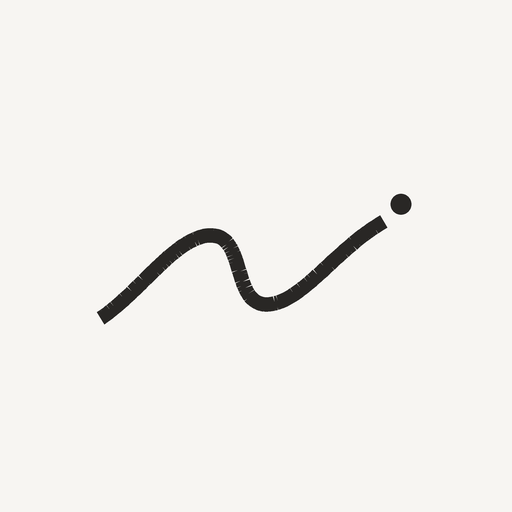
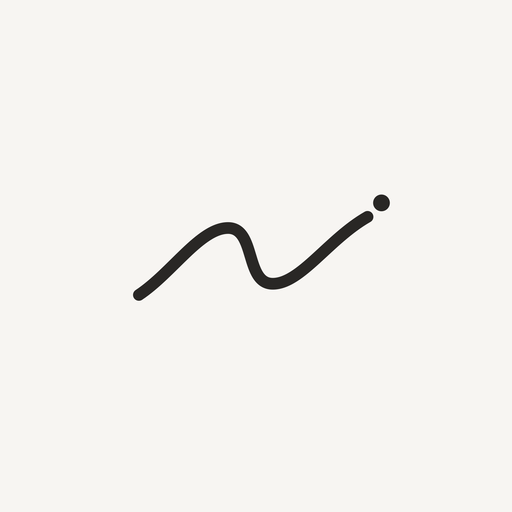
Add files via upload

Changed region(s): [[0.1875, 0.375, 0.8125, 0.6562]]

diff --git a/index.html b/index.html
@@ -1,5 +1,5 @@
 <!doctype html>
-<html lang="en"><head><meta charset="utf-8"><meta name="viewport" content="width=device-width,initial-scale=1,viewport-fit=cover"><meta name="theme-color" content="#f7f5f2"><link rel="manifest" href="manifest.webmanifest"><link rel="apple-touch-icon" href="icon-192.png?v=23"><title>Hana OS</title>
+<html lang="en"><head><meta charset="utf-8"><meta name="viewport" content="width=device-width,initial-scale=1,viewport-fit=cover"><meta name="theme-color" content="#f7f5f2"><link rel="manifest" href="manifest.webmanifest"><link rel="apple-touch-icon" href="icon-192.png?v=24"><title>Hana OS</title>
 <style>
 :root{--bg:#f7f5f2;--paper:#fffdfa;--ink:#292725;--muted:#8b8680;--line:#e5e0da;--soft:#eee9e3;--accent:#b9a89a;--shadow:0 8px 28px rgba(55,45,38,.055);font-family:-apple-system,BlinkMacSystemFont,"Segoe UI",sans-serif;color:var(--ink);background:var(--bg)}*{box-sizing:border-box}html{background:var(--bg)}body{margin:0;background:var(--bg);min-height:100vh}button,input,textarea,select{font:inherit;color:inherit}button{cursor:pointer}.app{max-width:720px;margin:auto;padding:0 18px calc(104px + env(safe-area-inset-bottom))}.topbar{padding:calc(22px + env(safe-area-inset-top)) 0 20px;display:flex;align-items:center;justify-content:space-between}.brand{display:flex;gap:11px;align-items:center}.mark{width:44px;height:38px;display:grid;place-items:center}.mark svg{width:44px;height:30px;overflow:visible}.mark path{fill:none;stroke:var(--ink);stroke-width:2.1;stroke-linecap:round;stroke-linejoin:round}.mark circle{fill:var(--ink)}.brand h1{font-family:Georgia,"Times New Roman",serif;font-weight:500;font-size:24px;letter-spacing:.01em;margin:0}.eyebrow{font-size:10px;letter-spacing:.16em;text-transform:uppercase;color:var(--muted);margin-bottom:4px}.date-pill{border:1px solid var(--line);background:transparent;border-radius:999px;padding:9px 12px;font-size:12px}.screen{display:none}.screen.active{display:block}.hero{padding:16px 0 26px}.hero h2{font-family:Georgia,"Times New Roman",serif;font-size:31px;line-height:1.08;font-weight:400;margin:0 0 8px}.muted{color:var(--muted);font-size:13px;line-height:1.45}.section{padding:22px 0;border-top:1px solid var(--line)}.section-title{font-family:Georgia,"Times New Roman",serif;font-size:21px;font-weight:400;margin:0 0 4px}.row{display:flex;gap:10px;align-items:center;justify-content:space-between;flex-wrap:wrap}.card{background:var(--paper);border:1px solid var(--line);border-radius:20px;padding:17px;box-shadow:var(--shadow)}.field{width:100%;border:1px solid var(--line);background:var(--paper);border-radius:14px;padding:13px 14px;font-size:15px;outline:none}.field:focus{border-color:var(--accent)}textarea{resize:vertical;line-height:1.55}.score-card{padding:16px 0}.score-head{display:flex;justify-content:space-between;align-items:baseline;margin-bottom:10px}.score-name{font-size:14px}.score-value{font-family:Georgia,serif;font-size:19px}.scale{display:grid;grid-template-columns:repeat(10,1fr);gap:5px}.scale button{aspect-ratio:1;border:1px solid var(--line);background:var(--paper);border-radius:50%;padding:0;font-size:10px;min-width:0}.scale button.on{background:var(--ink);color:var(--bg);border-color:var(--ink)}.chips{display:flex;flex-wrap:wrap;gap:8px}.chip,.btn{min-height:40px;border:1px solid var(--line);border-radius:999px;background:var(--paper);padding:8px 13px;font-size:13px}.chip.on{background:var(--ink);color:white;border-color:var(--ink)}.btn.primary{background:var(--ink);color:white;border-color:var(--ink);padding:11px 18px}.btn.ghost{background:transparent}.learning,.entry,.reviewbox{margin-top:12px}.learning{background:var(--paper);border:1px solid var(--line);border-radius:18px;padding:14px}.hidden{display:none!important}.actions{display:flex;gap:8px;flex-wrap:wrap}.status{min-height:18px}.bottomnav{position:fixed;z-index:20;bottom:0;left:0;right:0;background:rgba(247,245,242,.94);backdrop-filter:blur(18px);-webkit-backdrop-filter:blur(18px);border-top:1px solid var(--line);padding:8px 12px calc(8px + env(safe-area-inset-bottom));display:flex;justify-content:center}.navinner{width:min(720px,100%);display:grid;grid-template-columns:repeat(4,1fr)}.navbtn{border:0;background:transparent;padding:5px 2px;color:#9a948e;font-size:10px;display:flex;flex-direction:column;align-items:center;gap:3px}.navbtn svg{width:21px;height:21px;stroke:currentColor;fill:none;stroke-width:1.5}.navbtn.active{color:var(--ink)}.navbtn.active span{font-weight:600}.checklist{display:grid;gap:10px}.task{display:flex;align-items:center;gap:12px;background:var(--paper);border:1px solid var(--line);border-radius:16px;padding:13px}.task input{appearance:none;width:22px;height:22px;border:1px solid #bdb6af;border-radius:50%;margin:0;display:grid;place-items:center}.task input:checked{background:var(--ink);border-color:var(--ink)}.task input:checked:after{content:'✓';color:white;font-size:13px}.task input:checked+span{text-decoration:line-through;color:var(--muted)}.task span{flex:1}.task .x{border:0;background:none;color:var(--muted);font-size:18px}.progress{height:5px;background:var(--soft);border-radius:9px;overflow:hidden;margin:12px 0}.progress>i{display:block;height:100%;background:var(--ink);width:0}.statgrid{display:grid;grid-template-columns:repeat(2,1fr);gap:10px}.stat{background:var(--paper);border:1px solid var(--line);border-radius:18px;padding:16px}.stat b{font-family:Georgia,serif;font-size:27px;font-weight:400;display:block}.stat small{color:var(--muted)}.trend{display:flex;align-items:end;gap:5px;height:88px;margin-top:14px}.bar{flex:1;background:#d8d0c9;border-radius:5px 5px 2px 2px;min-height:4px;position:relative}.bar:last-child{background:var(--ink)}.timeline{border-left:1px solid var(--line);margin-left:7px;padding-left:18px}.timeline-item{position:relative;padding:0 0 20px}.timeline-item:before{content:'';position:absolute;width:7px;height:7px;border-radius:50%;background:var(--ink);left:-22px;top:6px}.small{font-size:12px;line-height:1.5}.entry details summary{cursor:pointer}.empty{padding:26px 0;color:var(--muted);font-family:Georgia,serif;font-size:18px}.reviewbox h3{font-size:10px;letter-spacing:.14em;color:var(--muted);margin:20px 0 7px}.reviewbox h3:first-child{margin-top:0}.quote{font-family:Georgia,serif;font-size:17px;font-style:italic;color:#625d58;margin-top:5px}@media(max-width:430px){.app{padding-left:16px;padding-right:16px}.hero h2{font-size:29px}.scale{gap:4px}.scale button{font-size:9px}.date-pill{max-width:125px}.statgrid{gap:8px}}@media(min-width:600px){.statgrid{grid-template-columns:repeat(4,1fr)}}
 </style></head><body><div class="app">

diff --git a/service-worker.js b/service-worker.js
@@ -1,1 +1,1 @@
-const C='hana-os-v2-3-logo';const A=['./','./index.html','./manifest.webmanifest','./icon-192.png','./icon-512.png'];self.addEventListener('install',e=>{self.skipWaiting();e.waitUntil(caches.open(C).then(c=>c.addAll(A)))});self.addEventListener('activate',e=>e.waitUntil(Promise.all([caches.keys().then(keys=>Promise.all(keys.filter(k=>k!==C).map(k=>caches.delete(k)))),self.clients.claim()])));self.addEventListener('fetch',e=>{if(e.request.mode==='navigate')e.respondWith(fetch(e.request).then(r=>{let c=r.clone();caches.open(C).then(x=>x.put('./index.html',c));return r}).catch(()=>caches.match('./index.html')));else e.respondWith(caches.match(e.request).then(r=>r||fetch(e.request))) });
+const C='hana-os-v2-4-exact-logo';const A=['./','./index.html','./manifest.webmanifest','./icon-192.png','./icon-512.png'];self.addEventListener('install',e=>{self.skipWaiting();e.waitUntil(caches.open(C).then(c=>c.addAll(A)))});self.addEventListener('activate',e=>e.waitUntil(Promise.all([caches.keys().then(keys=>Promise.all(keys.filter(k=>k!==C).map(k=>caches.delete(k)))),self.clients.claim()])));self.addEventListener('fetch',e=>{if(e.request.mode==='navigate')e.respondWith(fetch(e.request).then(r=>{let c=r.clone();caches.open(C).then(x=>x.put('./index.html',c));return r}).catch(()=>caches.match('./index.html')));else e.respondWith(caches.match(e.request).then(r=>r||fetch(e.request))) });
